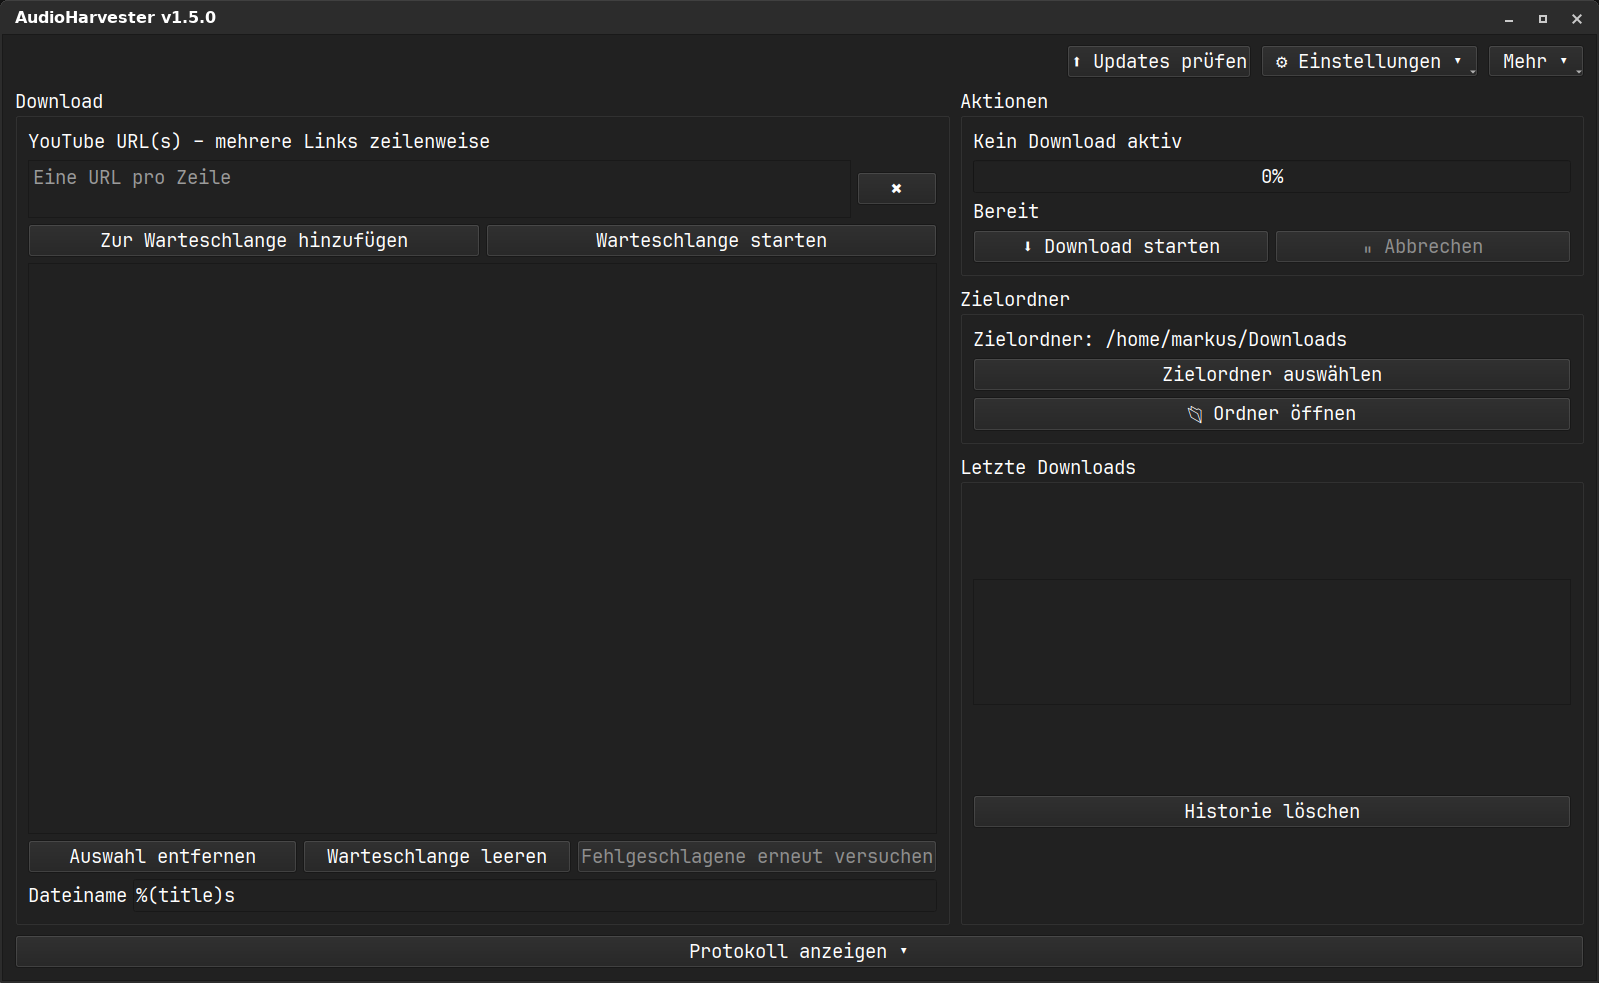
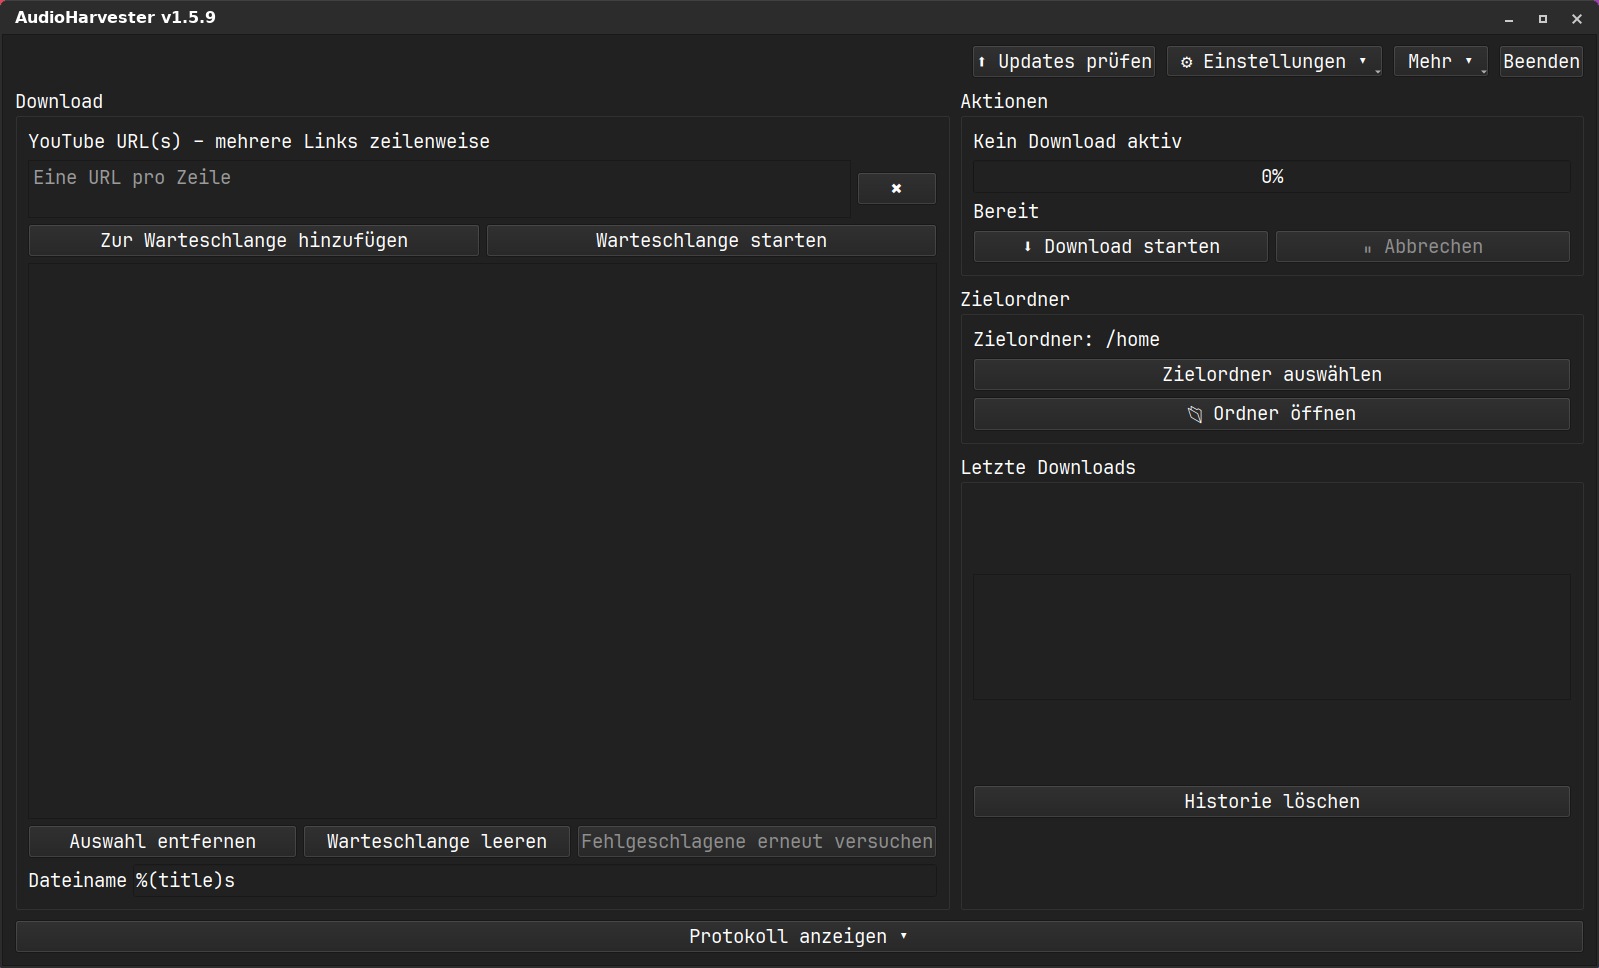
Update README screenshots

diff --git a/README.md b/README.md
@@ -32,7 +32,7 @@
 ## 📸 Preview
 
 <p align="center">
-  <img src="assets/img/deu_main-window.png" width="600" alt="AudioHarvester Hauptfenster auf Deutsch">
+  <img src="assets/img/eng_main-window.png" width="600" alt="AudioHarvester main window in English">
 </p>
 
 ---
